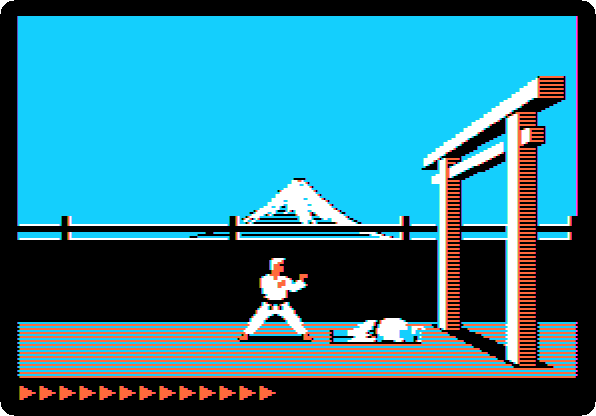
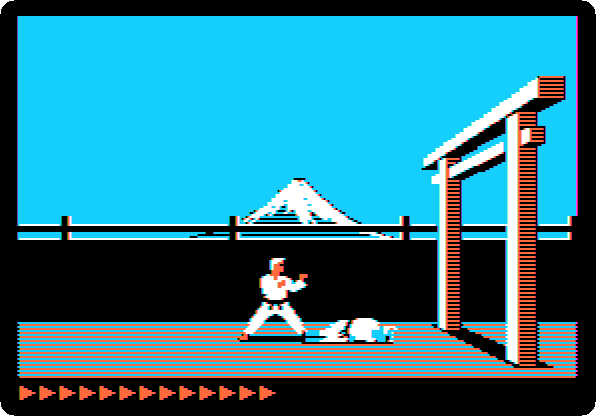
Show the princess of Karateka until she faints
As asked in the review: the scene of Akuma goes on to the princess in her
room, and the recording now ends when she has fainted, told by the orange
of her standing gone from the screen. The game ignores Space then, so the
generator presses it when the demonstration starts.

Changed region(s): [[0.4832, 0.75, 0.7248, 0.8438]]

diff --git a/activities/karateka_test.go b/activities/karateka_test.go
@@ -17,8 +17,9 @@ const karatekaMachine = `izapple2 -model _base -board 2plus -cpu 6502 \
 /*
 karatekaScreenshots is Karateka, Jordan Mechner's game of 1984, from its
 original disk on an Apple ][+: the titles, the prologue, Akuma and the
-princess in the dungeon, and a game started, the karateka climbing up from
-the cliff and beating the first guard, played with the joystick.
+princess until she faints in her room, and a game started, the karateka
+climbing up from the cliff and beating the first guard, played with the
+joystick.
 
 The parts of the game are waited for by their colours, counted on the
 screen: the orange of the title, the white of the prologue, the blue of the
@@ -47,19 +48,23 @@ func karatekaScreenshots(t *testing.T) {
 	waitForColours(t, o, colours, 60, func(c dotColours) bool { return c.white > 14000 })
 	must(t, pictures.Screenshot(o, "prologue"))
 
-	// Akuma and the princess, until the scene changes
+	// Akuma and the princess, and the princess in her room until she
+	// faints, when there is less orange of her standing on the screen
 	waitForColours(t, o, colours, 60, func(c dotColours) bool { return c.blue > 17000 })
 	dungeon := pictures.Record(o)
 	dungeon.Capture(10)
-	for colours().blue > 15000 {
+	for c := colours(); c.blue > 15500 || c.orange > 420; c = colours() {
 		if o.Frames() > 4*60*60 {
-			t.Fatal("the scene of Akuma did not end")
+			t.Fatal("the princess did not faint")
 		}
 		dungeon.Run(6, 6)
 	}
+	dungeon.Run(2*60, 6)
 	must(t, pictures.SaveRecording(dungeon, "akuma", 100))
 
-	// A game started with a key: the castle, and the cliff
+	// A game started with a key, in the demonstration that follows: the
+	// castle, and the cliff
+	waitForColours(t, o, colours, 30, func(c dotColours) bool { return c.blue > 100000 })
 	must(t, o.Key("Space"))
 	waitForColours(t, o, colours, 30, func(c dotColours) bool { return c.white > 30000 })
 	o.RunSeconds(1)

diff --git a/guides/karateka.md b/guides/karateka.md
@@ -63,7 +63,8 @@ izapple2 -model 2plus disks/karateka.woz
    your way in and free the princess Mariko.
 
 3. **Wait.** The first scene: Akuma in his fortress, and the princess
-   Mariko, his captive.
+   Mariko, his captive. He sends her away, to a room of her own, where she
+   faints.
 
    ![Akuma and the princess](images/karateka/akuma.gif)
 
@@ -72,7 +73,8 @@ izapple2 -model 2plus disks/karateka.woz
 
 ## The game
 
-4. **Press Space.** The fortress, on its cliff against the moon.
+4. **Press Space** when the demonstration starts. The fortress, on its
+   cliff against the moon.
 
    ![The fortress](images/karateka/castle.png)
 
